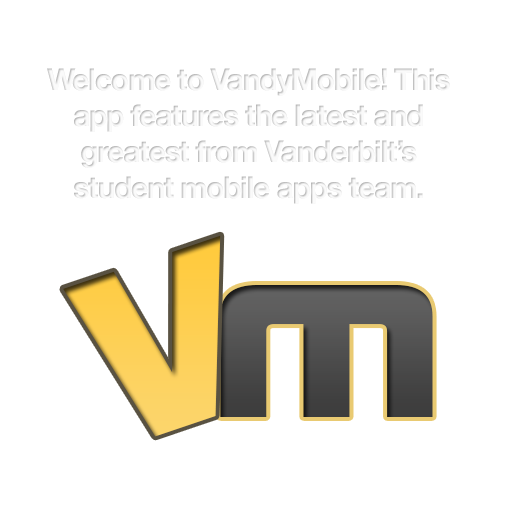
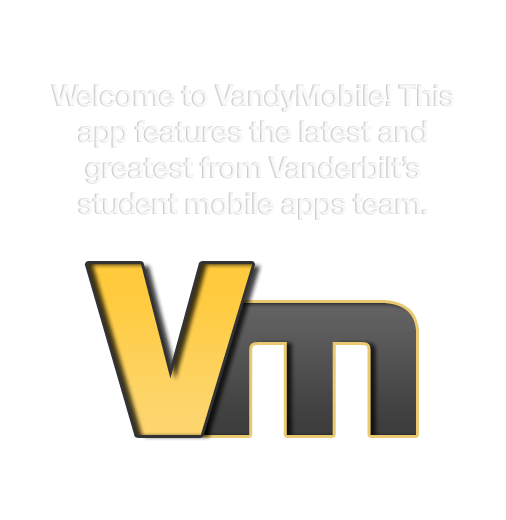
Changed the intro slide, added a button

Changed region(s): [[0.0889, 0.1231, 0.8893, 0.8615]]

diff --git a/VandyMobile/MeetingsTableViewController.m b/VandyMobile/MeetingsTableViewController.m
@@ -101,7 +101,7 @@
 
 - (void)showIntro {
     FirstTimeViewController *ftvc = [[FirstTimeViewController alloc] initWithNibName:@"FirstTimeViewController" bundle:nil andNumberOfSlides:6];
-    [self.tabBarController presentOverviewController:ftvc withOpacity:.8 animated:YES];
+    [self.tabBarController presentOverviewController:ftvc withOpacity:.7 animated:YES];
 }
 
 - (void)setupCreateMeetingButton {
@@ -143,6 +143,7 @@
                                             if (!self.hasShownIntro) {
                                                 [self showIntro];
                                                 self.hasShownIntro = YES;
+                                                [self.navigationItem setLeftBarButtonItem:[[UIBarButtonItem alloc] initWithBarButtonSystemItem:UIBarButtonSystemItemAction target:self action:@selector(showIntro)]];
                                             }
 										}
 										failure:^(AFHTTPRequestOperation *operation, NSError *error) {
